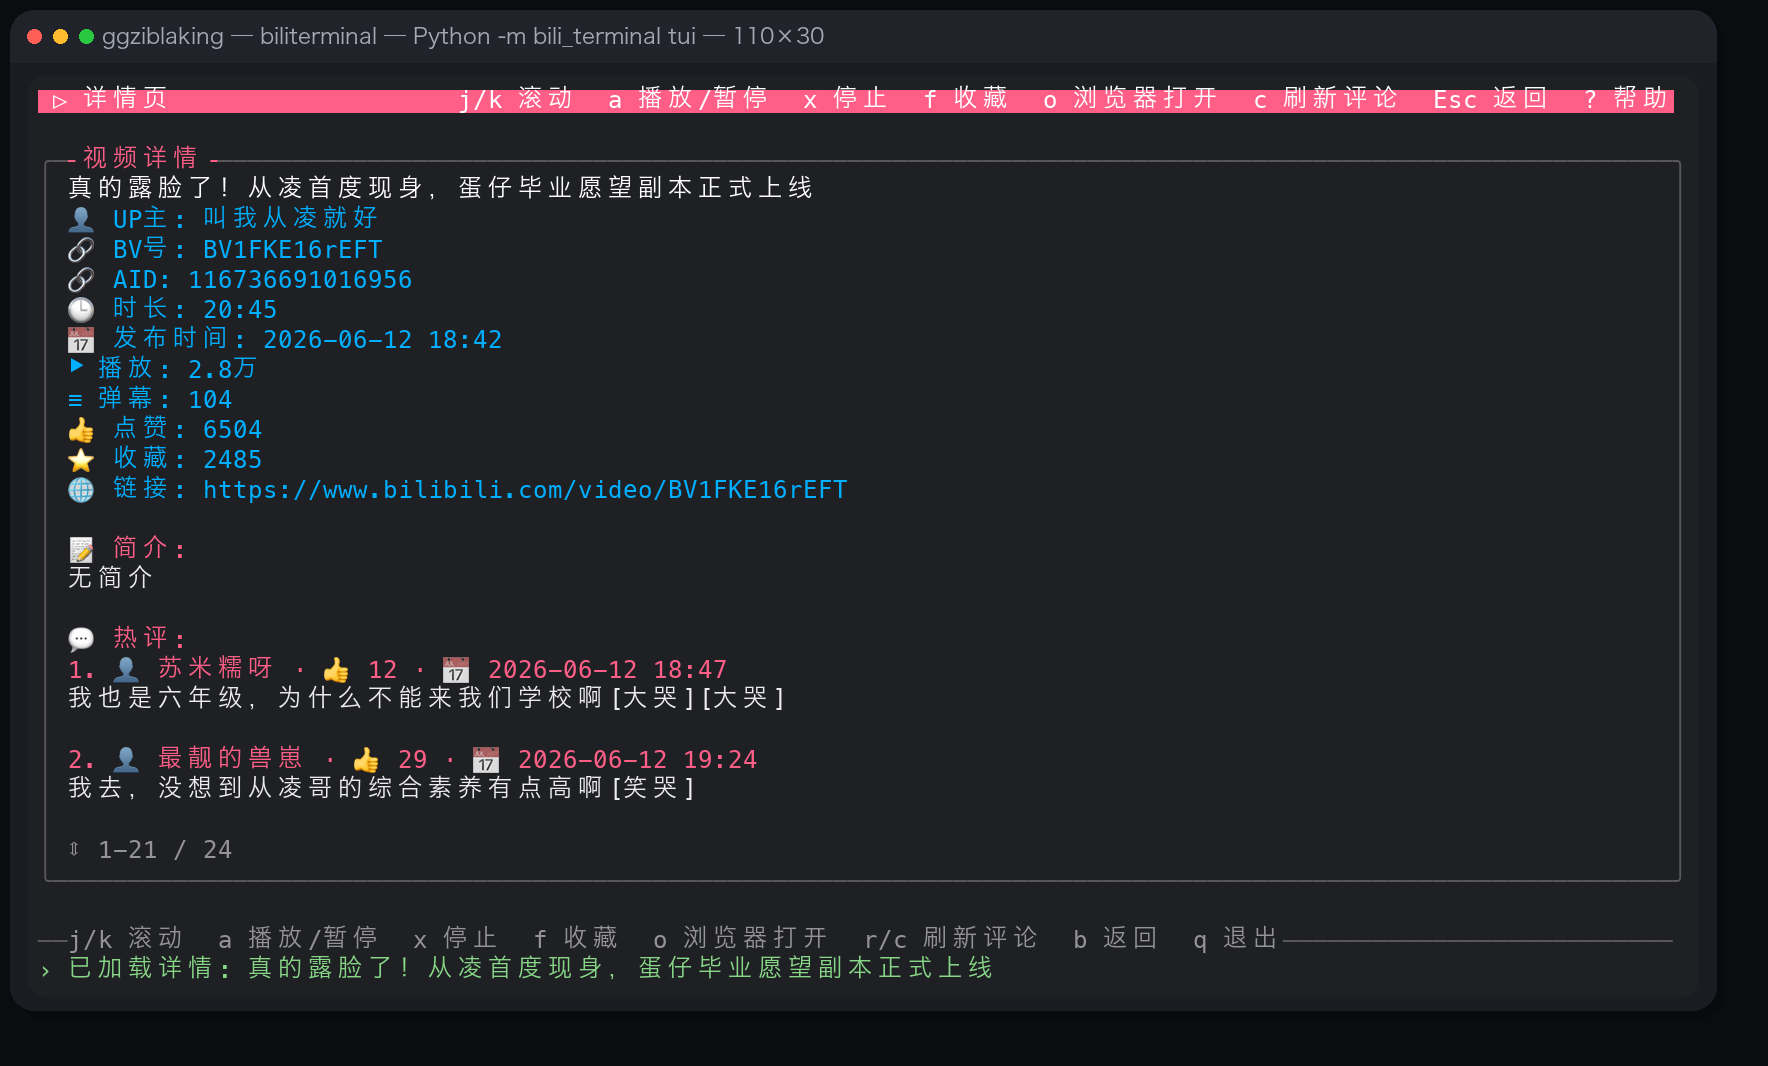
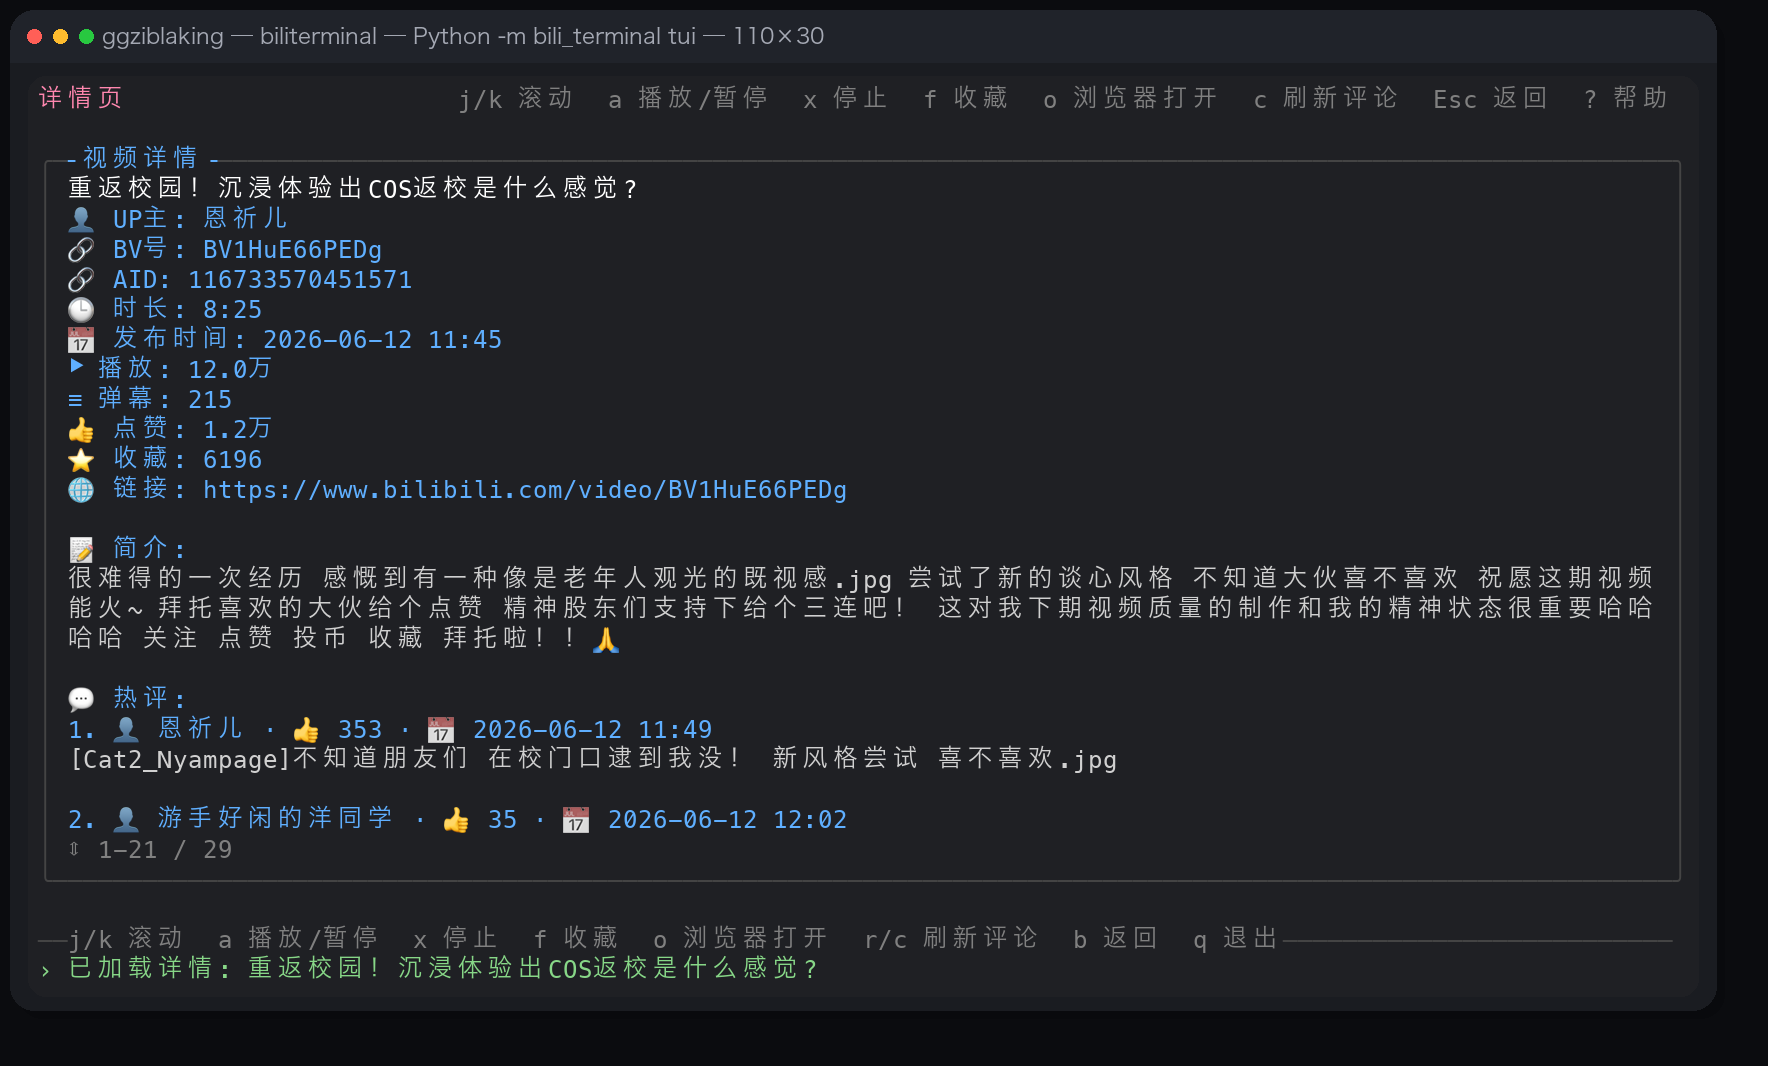
重做 TUI 配色：去掉刺眼的实心粉色块，建立清晰层次
之前满屏粉色高亮条（顶栏整行底色、选中标题/搜索框/当前分区都是
白字粉底色块），既刺眼又没有层次。改为：
- 所有色对改用前景色 + 透明背景，不再铺任何实心色块
- 粉色只保留给：品牌名、当前选中项（纯粉字）、选中卡片的边框与指针
- 数据/元信息（UP主、播放量、时间）统一用蓝色
- 区块小标题（简介/热搜/热评等）用蓝色加粗，不再全是粉色
- 正文用中性文字色，弱化信息用灰
- 顶栏品牌粉、右侧上下文转灰；标签页当前项用粉色下划线而非色块
- 精简各面板边框标签上的装饰性 emoji 前缀
- 调整粉/蓝色号到更柔和的 211/75，分区 chip 间距加大更透气

同步更新 init_theme 测试断言与 README 截图。

diff --git a/bili_terminal/tui.py b/bili_terminal/tui.py
@@ -201,14 +201,15 @@ class BilibiliTUI:
 
     # 256 色终端下的 xterm 调色板索引；16 色终端退化到基础色
     PALETTE_256 = {
-        "pink": 204,
-        "text": 231,
-        "blue": 39,
-        "gold": 220,
+        "pink": 211,
+        "text": 252,
+        "bright": 231,
+        "blue": 75,
+        "gold": 215,
         "green": 114,
         "red": 203,
-        "border": 240,
-        "muted": 246,
+        "border": 238,
+        "muted": 244,
     }
 
     def init_theme(self) -> None:
@@ -223,10 +224,9 @@ class BilibiliTUI:
 
         if colors >= 256:
             p = self.PALETTE_256
-            pink, text = p["pink"], p["text"]
+            pink, text, bright = p["pink"], p["text"], p["bright"]
             blue, gold, green, red = p["blue"], p["gold"], p["green"], p["red"]
             border, muted = p["border"], p["muted"]
-            selected_fg = text
         else:
             pink = 13 if colors >= 16 else curses.COLOR_MAGENTA
             if curses.can_change_color() and pink < colors:
@@ -234,23 +234,24 @@ class BilibiliTUI:
                     curses.init_color(pink, *BILIBILI_PINK_RGB)
                 except curses.error:
                     pass
-            text = curses.COLOR_WHITE
+            text = bright = curses.COLOR_WHITE
             blue, gold = curses.COLOR_CYAN, curses.COLOR_YELLOW
             green, red = curses.COLOR_GREEN, curses.COLOR_RED
             border = muted = -1
-            selected_fg = curses.COLOR_BLACK
 
-        curses.init_pair(1, text, pink)          # header: 白字粉底
-        curses.init_pair(2, pink, -1)            # accent: 粉色强调
-        curses.init_pair(3, text, -1)            # title: 高亮标题
-        curses.init_pair(4, selected_fg, pink)   # selected: 选中反白
+        # 全部用前景色 + 透明背景，不再铺实心色块
+        curses.init_pair(1, pink, -1)            # brand: 品牌粉
+        curses.init_pair(2, pink, -1)            # accent: 粉色强调（选中边框/指针）
+        curses.init_pair(3, bright, -1)          # title: 高亮标题
+        curses.init_pair(4, pink, -1)            # selected: 选中项（纯粉字，无底色）
         curses.init_pair(5, blue, -1)            # info: 次级信息（UP主/数据）
         curses.init_pair(6, gold, -1)            # star: 收藏星标
         curses.init_pair(7, green, -1)           # ok: 成功状态
         curses.init_pair(8, red, -1)             # err: 错误状态
         curses.init_pair(9, border, -1)          # border: 边框
         curses.init_pair(10, muted, -1)          # muted: 弱化文本
-        curses.init_pair(11, pink, text)         # tab_active: 粉字白底
+        curses.init_pair(11, blue, -1)           # section: 区块小标题
+        curses.init_pair(12, text, -1)           # body: 正文
         self._dim_extras = colors < 256          # 16 色没有专用灰，用 A_DIM 模拟
         self.use_colors = True
 
@@ -259,30 +260,37 @@ class BilibiliTUI:
 
         if not self.use_colors:
             return {
-                "header": curses.A_REVERSE | curses.A_BOLD,
+                "header": curses.A_BOLD,
+                "brand": curses.A_BOLD,
                 "accent": curses.A_BOLD,
                 "title": curses.A_BOLD,
-                "selected": curses.A_REVERSE,
+                "selected": curses.A_BOLD,
+                "section": curses.A_BOLD,
                 "info": curses.A_NORMAL,
+                "body": curses.A_NORMAL,
                 "star": curses.A_BOLD,
                 "ok": curses.A_NORMAL,
                 "err": curses.A_BOLD,
                 "border": curses.A_DIM,
                 "muted": curses.A_DIM,
-                "tab_active": curses.A_REVERSE | curses.A_BOLD,
+                "tab_active": curses.A_BOLD | curses.A_UNDERLINE,
             }.get(name, curses.A_NORMAL)
+        dim = curses.A_DIM if getattr(self, "_dim_extras", False) else 0
         pair_map = {
             "header": (1, curses.A_BOLD),
+            "brand": (1, curses.A_BOLD),
             "accent": (2, curses.A_BOLD),
             "title": (3, curses.A_BOLD),
             "selected": (4, curses.A_BOLD),
+            "section": (11, curses.A_BOLD),
             "info": (5, 0),
+            "body": (12, 0),
             "star": (6, curses.A_BOLD),
             "ok": (7, 0),
             "err": (8, curses.A_BOLD),
-            "border": (9, curses.A_DIM if getattr(self, "_dim_extras", False) else 0),
-            "muted": (10, curses.A_DIM if getattr(self, "_dim_extras", False) else 0),
-            "tab_active": (11, curses.A_BOLD),
+            "border": (9, dim),
+            "muted": (10, dim),
+            "tab_active": (1, curses.A_BOLD | curses.A_UNDERLINE),
         }
         pair, extra = pair_map.get(name, (3, 0))
         return curses.color_pair(pair) | extra
@@ -803,7 +811,7 @@ class BilibiliTUI:
         import curses
 
         lines = [
-            "✦ 帮助 ✦",
+            "帮助",
             "",
             "── 列表视图 ──",
             "j / k, ↑ / ↓   移动选中项（自动加载热评）",
@@ -843,13 +851,13 @@ class BilibiliTUI:
             pass
         for index, line in enumerate(lines[: box_height - 2], start=1):
             if index == 1:
-                attr = self.attr("accent") | curses.A_BOLD
+                attr = self.attr("brand")
             elif line.startswith("──"):
-                attr = self.attr("info")
+                attr = self.attr("section")
             elif line.startswith("最近搜索"):
                 attr = self.attr("muted")
             else:
-                attr = curses.A_NORMAL
+                attr = self.attr("body")
             try:
                 win.addnstr(index, 2, line, box_width - 4, attr)
             except curses.error:
@@ -887,8 +895,14 @@ class BilibiliTUI:
 
         if label:
             label_text = f"╴{label}╶"
+            if label_attr is not None:
+                resolved_label_attr = label_attr
+            elif selected:
+                resolved_label_attr = self.attr("accent")
+            else:
+                resolved_label_attr = self.attr("section")
             try:
-                stdscr.addnstr(y, x + 2, label_text, width - 4, label_attr if label_attr is not None else self.attr("accent"))
+                stdscr.addnstr(y, x + 2, label_text, width - 4, resolved_label_attr)
             except curses.error:
                 pass
 
@@ -907,16 +921,16 @@ class BilibiliTUI:
     def draw_banner(self, stdscr: Any, y: int, width: int) -> int:
         banner_height = 6
         self.draw_box(stdscr, y, 0, banner_height, width, "发现")
-        headline = "✦ 哔哩哔哩 · 终端版 ✦"
-        stdscr.addnstr(y + 1, centered_x(width, headline, 2), headline, width - 4, self.attr("accent"))
+        headline = "哔哩哔哩 · 终端版"
+        stdscr.addnstr(y + 1, centered_x(width, headline, 2), headline, width - 4, self.attr("brand"))
         if self.mode == "search" and self.keyword:
             query = truncate_display(self.keyword, max(12, width - 24))
-            search_text = f" 🔍 {query} "
+            search_text = f"🔍 {query}"
         else:
             default_word = self.default_search_keyword or "按 / 开始搜索"
-            search_text = f" 🔍 {truncate_display(default_word, max(12, width - 24))} "
+            search_text = f"🔍 {truncate_display(default_word, max(12, width - 24))}"
         search_x = centered_x(width, search_text, 2)
-        stdscr.addnstr(y + 2, search_x, search_text, max(1, width - search_x - 2), self.attr("selected"))
+        stdscr.addnstr(y + 2, search_x, search_text, max(1, width - search_x - 2), self.attr("title"))
         if self.mode == "hot":
             channel_label = self.active_channel()["label"]
         elif self.mode == "favorites":
@@ -925,7 +939,7 @@ class BilibiliTUI:
             channel_label = "最近浏览"
         else:
             channel_label = "搜索"
-        section_line = f"─ {channel_label} · 第 {self.page} 页 ─"
+        section_line = f"{channel_label} · 第 {self.page} 页"
         stdscr.addnstr(y + 3, centered_x(width, section_line, 2), section_line, width - 4, self.attr("info"))
         hot_words = " · ".join(self.trending_keywords_cache[:3]) if self.trending_keywords_cache else "热点内容 · 分区导航 · 精选视频"
         subline = f"🔥 {truncate_display(hot_words, max(16, width - 12))}"
@@ -933,8 +947,9 @@ class BilibiliTUI:
         return banner_height
 
     def draw_category_row(self, stdscr: Any, y: int, width: int) -> int:
-        chips = [f" {index + 1} {channel['label']} " for index, channel in enumerate(self.channels)]
+        chips = [f"{index + 1} {channel['label']}" for index, channel in enumerate(self.channels)]
         widths = [display_width(chip) for chip in chips]
+        gap = 3
         start = 0
         if self.mode == "hot":
             # 保证当前分区始终可见：不够宽时从更后面的 chip 开始画
@@ -946,13 +961,13 @@ class BilibiliTUI:
                         break
                     if index == self.channel_index:
                         visible_through_active = True
-                    x += widths[index] + 1
+                    x += widths[index] + gap
                 if visible_through_active:
                     break
                 start += 1
         x = 0
         if start > 0:
-            stdscr.addnstr(y, x, "‹", 1, self.attr("accent"))
+            stdscr.addnstr(y, x, "‹", 1, self.attr("muted"))
             x += 2
         truncated = False
         for index in range(start, len(chips)):
@@ -961,21 +976,19 @@ class BilibiliTUI:
             if x + chip_width >= width - 2:
                 truncated = True
                 break
-            if index == self.channel_index and self.mode == "hot":
-                attr = self.attr("selected")
-            else:
-                attr = self.attr("muted")
+            active = index == self.channel_index and self.mode == "hot"
+            attr = self.attr("selected") if active else self.attr("muted")
             stdscr.addnstr(y, x, chip, chip_width, attr)
-            x += chip_width + 1
+            x += chip_width + gap
         if truncated and x < width - 1:
-            stdscr.addnstr(y, x, "›", 1, self.attr("accent"))
+            stdscr.addnstr(y, x, "›", 1, self.attr("muted"))
         return 1
 
     def selected_card_item(self) -> VideoItem | None:
         return self.selected_item
 
     def draw_featured_card(self, stdscr: Any, y: int, x: int, height: int, width: int, item: VideoItem | None, selected: bool) -> None:
-        self.draw_box(stdscr, y, x, height, width, "✦ 今日精选", selected=selected)
+        self.draw_box(stdscr, y, x, height, width, "今日精选", selected=selected)
         if item is None:
             stdscr.addnstr(y + 2, x + 2, "没有可展示的内容", width - 4, self.attr("muted"))
             return
@@ -1040,7 +1053,7 @@ class BilibiliTUI:
         for section_title, lines in sections:
             if available_body_lines <= 0:
                 break
-            stdscr.addnstr(body_cursor, x + 2, section_title, width - 4, self.attr("accent"))
+            stdscr.addnstr(body_cursor, x + 2, section_title, width - 4, self.attr("section"))
             body_cursor += 1
             available_body_lines -= 1
             if available_body_lines <= 0:
@@ -1048,7 +1061,7 @@ class BilibiliTUI:
             for line in lines:
                 if available_body_lines <= 0:
                     break
-                stdscr.addnstr(body_cursor, x + 2, truncate_display(line, width - 4), width - 4)
+                stdscr.addnstr(body_cursor, x + 2, truncate_display(line, width - 4), width - 4, self.attr("body"))
                 body_cursor += 1
                 available_body_lines -= 1
         stdscr.addnstr(y + height - 2, x + 2, "⏎ 查看详情", width - 4, self.attr("muted"))
@@ -1077,7 +1090,7 @@ class BilibiliTUI:
             stdscr.addnstr(y + 3, x + 2, truncate_display(metrics, width - 4), width - 4, self.attr("muted"))
 
     def draw_comments_panel(self, stdscr: Any, y: int, x: int, height: int, width: int) -> None:
-        panel_label = "💬 评论预览" if self.mode == "favorites" else "💬 热评"
+        panel_label = "评论预览" if self.mode == "favorites" else "热评"
         self.draw_box(stdscr, y, x, height, width, panel_label)
         if height < 4:
             return
@@ -1113,7 +1126,7 @@ class BilibiliTUI:
                 f"❝ {comment.author} · ♡ {human_count(comment.like)} · {format_timestamp(comment.ctime)}",
                 width - 4,
             )
-            stdscr.addnstr(cursor, x + 2, header, width - 4, self.attr("info") if index == 1 else self.attr("muted"))
+            stdscr.addnstr(cursor, x + 2, header, width - 4, self.attr("info"))
             cursor += 1
             available -= 1
             if available <= 0:
@@ -1121,7 +1134,7 @@ class BilibiliTUI:
             for line in wrap_display(comment.message or "暂无评论内容", width=max(12, width - 4)):
                 if available <= 0:
                     break
-                stdscr.addnstr(cursor, x + 2, line, width - 4)
+                stdscr.addnstr(cursor, x + 2, line, width - 4, self.attr("body"))
                 cursor += 1
                 available -= 1
             if available <= 0:
@@ -1167,13 +1180,13 @@ class BilibiliTUI:
             elif offset in (1, 2, 3):
                 attr = self.attr("info")
             elif line in ("🔗 链接", "¶ 简介"):
-                attr = self.attr("accent")
+                attr = self.attr("section")
             else:
-                attr = 0
+                attr = self.attr("body")
             stdscr.addnstr(start_y + offset, start_x, line, width, attr)
 
     def draw_favorites_list(self, stdscr: Any, y: int, x: int, height: int, width: int) -> None:
-        label = f"★ 收藏列表 · {len(self.items)}"
+        label = f"收藏列表 · {len(self.items)}"
         self.draw_box(stdscr, y, x, height, width, label)
         if height < 4:
             return
@@ -1209,7 +1222,7 @@ class BilibiliTUI:
                 cursor += 1
 
     def draw_favorites_view(self, stdscr: Any, height: int, width: int) -> None:
-        self._draw_top_bar(stdscr, width, " ★ 我的收藏 ", f"共 {len(self.items)} 条 ")
+        self._draw_top_bar(stdscr, width, "我的收藏", f"共 {len(self.items)} 条")
 
         selected = self.selected_item
         now_playing = self._now_playing_token(max(10, width // 2))
@@ -1245,22 +1258,20 @@ class BilibiliTUI:
                 preview_height = content_height
                 comments_height = 0
 
-        self.draw_box(stdscr, content_top, right_x, preview_height, right_width, "▷ 视频预览")
+        self.draw_box(stdscr, content_top, right_x, preview_height, right_width, "视频预览")
         self.draw_detail_summary(stdscr, content_top + 1, right_x + 2, max(12, right_width - 4), max(1, preview_height - 2))
 
         if comments_height >= 5:
             self.draw_comments_panel(stdscr, content_top + preview_height, right_x, comments_height, right_width)
 
     def _draw_top_bar(self, stdscr: Any, width: int, title: str, right_text: str) -> None:
-        # 整行铺粉底，左标题右上下文
-        stdscr.addnstr(0, 0, " " * max(1, width - 1), width - 1, self.attr("header"))
-        stdscr.addnstr(0, 0, title, width - 1, self.attr("header"))
+        # 左侧品牌标题（粉），右侧上下文（弱化）
+        stdscr.addnstr(0, 0, title, width - 1, self.attr("brand"))
         right_x = max(0, width - display_width(right_text) - 1)
         if right_x > display_width(title):
-            stdscr.addnstr(0, right_x, right_text, width - right_x - 1, self.attr("header"))
+            stdscr.addnstr(0, right_x, right_text, width - right_x - 1, self.attr("muted"))
 
     def _draw_tab_row(self, stdscr: Any, y: int, width: int) -> None:
-        stdscr.addnstr(y, 0, " " * max(1, width - 1), width - 1)
         tabs = [
             ("首页", "hot"),
             ("搜索", "search"),
@@ -1270,13 +1281,13 @@ class BilibiliTUI:
         tab_x = 1
         for label, mode in tabs:
             active = self.mode == mode
-            chip = f" {label} "
+            chip = f"{label}"
             chip_width = display_width(chip)
             if tab_x + chip_width >= width - 1:
                 break
             attr = self.attr("tab_active") if active else self.attr("muted")
             stdscr.addnstr(y, tab_x, chip, chip_width, attr)
-            tab_x += chip_width + 1
+            tab_x += chip_width + 3
 
         now_playing = self._now_playing_token(max(10, width // 3))
         if now_playing:
@@ -1296,7 +1307,7 @@ class BilibiliTUI:
             stdscr.addnstr(y, hint_x, hint, width - hint_x - 1, hint_attr)
 
     def draw_split_view(self, stdscr: Any, height: int, width: int) -> None:
-        self._draw_top_bar(stdscr, width, " ◉ 哔哩哔哩终端 ", f"{self.mode_token()} · 第 {self.page} 页 ")
+        self._draw_top_bar(stdscr, width, "哔哩哔哩终端", f"{self.mode_token()} · 第 {self.page} 页")
         self._draw_tab_row(stdscr, 1, width)
         stdscr.addnstr(2, 0, "─" * max(1, width - 1), width - 1, self.attr("border"))
 
@@ -1347,7 +1358,7 @@ class BilibiliTUI:
             self.draw_comments_panel(stdscr, comments_y, right_x, comments_height, right_width)
 
     def draw_detail_view(self, stdscr: Any, height: int, width: int) -> None:
-        header = " ▷ 详情页 "
+        header = "详情页"
         header_right_full = "j/k 滚动  a 播放/暂停  x 停止  f 收藏  o 浏览器打开  c 刷新评论  Esc 返回  ? 帮助"
         header_right_compact = "j/k 滚动  Esc 返回  ? 帮助"
         header_right = header_right_full if display_width(header) + display_width(header_right_full) < width - 2 else header_right_compact
@@ -1366,13 +1377,13 @@ class BilibiliTUI:
         visible_lines = detail_lines[self.detail_scroll : self.detail_scroll + visible_capacity]
         for offset, line in enumerate(visible_lines):
             if "💬 热评:" in line or "📝 简介:" in line:
-                attr = self.attr("accent")
+                attr = self.attr("section")
             elif line.startswith(("👤", "🔗", "🕒", "📅", "▶", "≡", "👍", "⭐", "🌐")):
                 attr = self.attr("info")
             elif line.startswith(tuple(f"{n}. " for n in range(1, 10))) and "👍" in line:
-                attr = self.attr("accent")
+                attr = self.attr("info")
             else:
-                attr = 0
+                attr = self.attr("body")
             stdscr.addnstr(content_top + 2 + offset, 2, line, width - 4, attr)
         footer = f"⇕ {self.detail_scroll + 1}-{self.detail_scroll + len(visible_lines)} / {len(detail_lines)}"
         stdscr.addnstr(content_top + content_height - 2, 2, footer, width - 4, self.attr("muted"))

diff --git a/bili_terminal/tests/test_bilibili_cli.py b/bili_terminal/tests/test_bilibili_cli.py
@@ -1076,8 +1076,9 @@ class TUIStateTests(unittest.TestCase):
             with mock.patch.dict(sys.modules, {"curses": fake_curses}):
                 tui.init_theme()
             self.assertIn(("init_color", 13, *cli.BILIBILI_PINK_RGB), fake_curses.calls)
-            self.assertIn(("init_pair", 1, fake_curses.COLOR_WHITE, 13), fake_curses.calls)
-            self.assertIn(("init_pair", 4, fake_curses.COLOR_BLACK, 13), fake_curses.calls)
+            # 品牌/选中都用粉色前景 + 透明背景，不再铺实心色块
+            self.assertIn(("init_pair", 1, 13, -1), fake_curses.calls)
+            self.assertIn(("init_pair", 4, 13, -1), fake_curses.calls)
             self.assertTrue(tui.use_colors)
 
     def test_load_items_uses_home_recommend_channel(self) -> None: